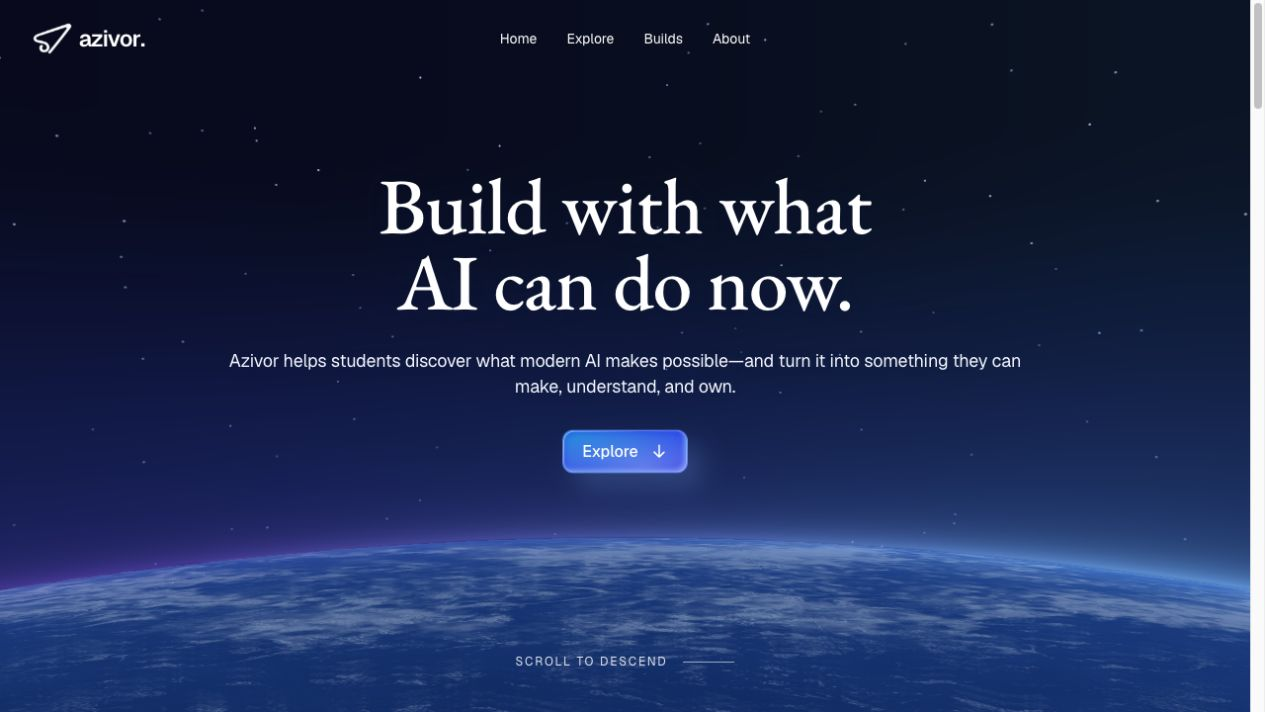
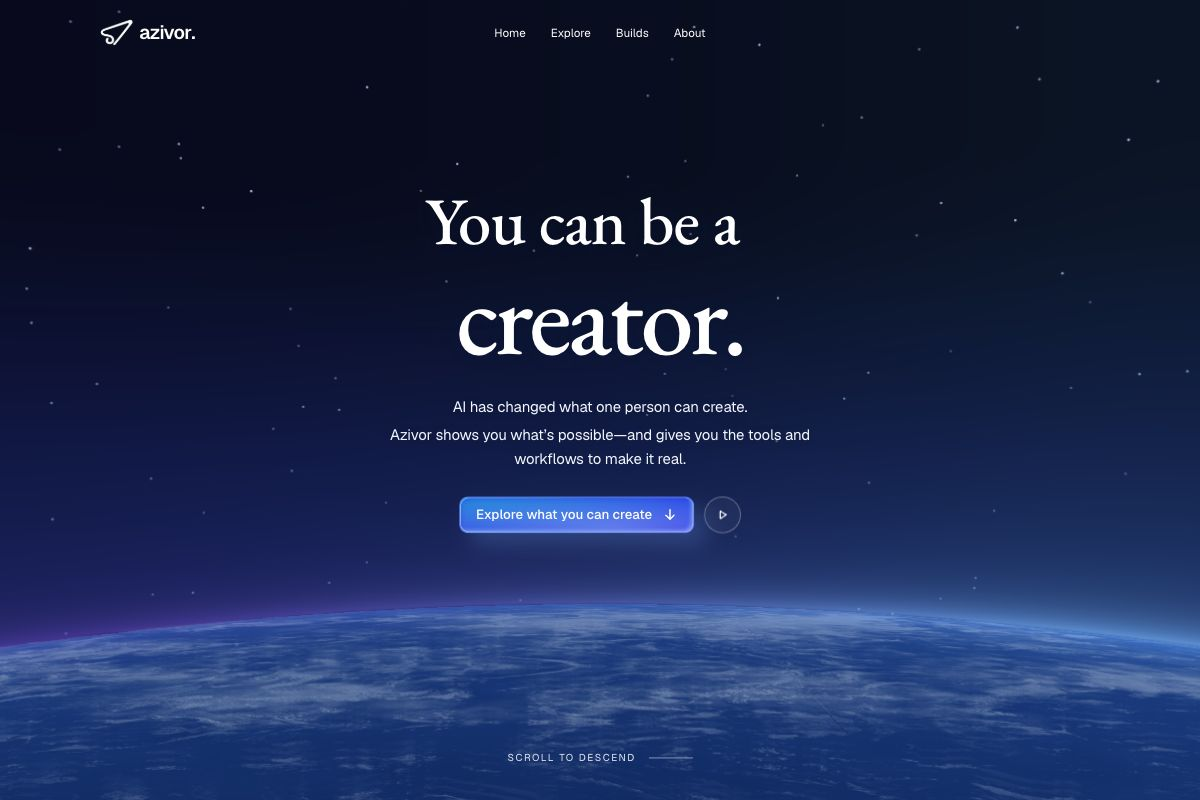
Automatic local backup 2026-10-03 23:34:10

diff --git a/dist/index.html b/dist/index.html
@@ -52,5 +52,5 @@
 </div>
 </main><footer><a class="wordmark footer-mark" href="/" aria-label="Azivor home"><img class="brand-mark" src="/azivor-logo.png" width="512" height="408" alt="" aria-hidden="true" decoding="async">azivor.</a><nav class="footer-links" aria-label="Footer navigation"><a href="/builds/">Builds</a><a href="/explore/">Exercises &amp; workflows</a><a href="/about/">About Azivor</a></nav><span>© 2026 Azivor</span></footer>
 </div>
-<script src="/script.js?v=1a6e073d997c" defer></script><script type="module" src="/sky-scene.js?v=58f6ac3adb1d"></script><script type="module" src="/hero-roles.js?v=f030f5416b2c"></script>
+<script src="/script.js?v=1a6e073d997c" defer></script><script type="module" src="/sky-scene.js?v=58f6ac3adb1d"></script><script src="/hero-roles.js?v=1fa1081a55da" defer></script>
 </body></html>

diff --git a/dist/scene-test/index.html b/dist/scene-test/index.html
@@ -52,5 +52,5 @@
 </div>
 </main><footer><a class="wordmark footer-mark" href="/" aria-label="Azivor home"><img class="brand-mark" src="/azivor-logo.png" width="512" height="408" alt="" aria-hidden="true" decoding="async">azivor.</a><nav class="footer-links" aria-label="Footer navigation"><a href="/builds/">Builds</a><a href="/explore/">Exercises &amp; workflows</a><a href="/about/">About Azivor</a></nav><span>© 2026 Azivor</span></footer>
 </div>
-<script src="/script.js?v=1a6e073d997c" defer></script><script type="module" src="/sky-scene.js?v=58f6ac3adb1d"></script><script type="module" src="/hero-roles.js?v=f030f5416b2c"></script>
+<script src="/script.js?v=1a6e073d997c" defer></script><script type="module" src="/sky-scene.js?v=58f6ac3adb1d"></script><script src="/hero-roles.js?v=1fa1081a55da" defer></script>
 </body></html>

diff --git a/dist/hero-roles.js b/dist/hero-roles.js
@@ -1,3 +1,4 @@
+(() => {
 // Native HTML keeps a readable headline without JavaScript or motion.
 const roles = [...document.querySelectorAll('.hero-role')];
 const toggle = document.querySelector('.role-toggle');
@@ -70,3 +71,4 @@ if (hero && 'MutationObserver' in window) {
 reducedMotion.addEventListener('change', syncMotion);
 document.addEventListener('visibilitychange', schedule);
 syncMotion();
+})();

diff --git a/src/hero-roles.js b/src/hero-roles.js
@@ -1,3 +1,4 @@
+(() => {
 // Native HTML keeps a readable headline without JavaScript or motion.
 const roles = [...document.querySelectorAll('.hero-role')];
 const toggle = document.querySelector('.role-toggle');
@@ -70,3 +71,4 @@ if (hero && 'MutationObserver' in window) {
 reducedMotion.addEventListener('change', syncMotion);
 document.addEventListener('visibilitychange', schedule);
 syncMotion();
+})();
